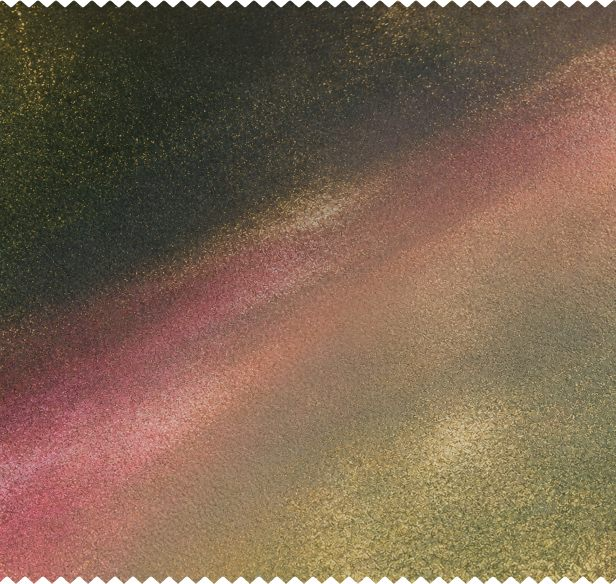
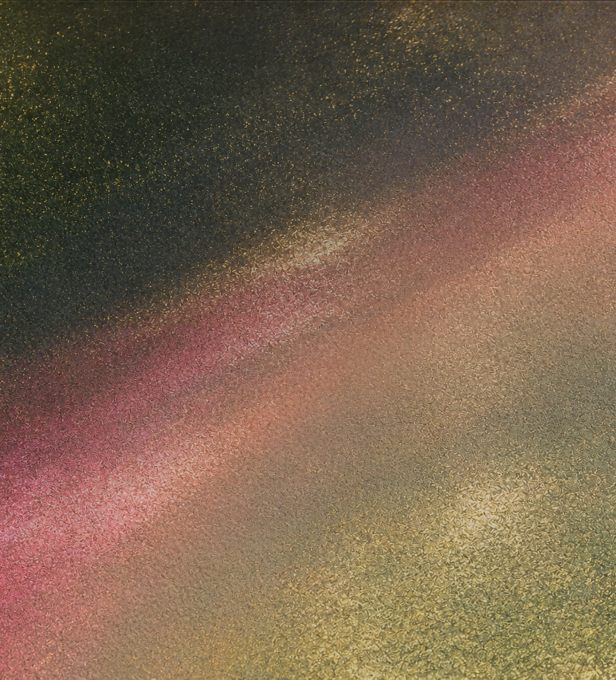
Параллакс текстуры внутри обеих плашек
Автор прислала удлинённые версии текстур (узлы 1964:820 и 1966:867:
308×340 и 986×468 против 308×292 и 986×406) — запас по высоте и есть ход
параллакса: 48 и 62 пикселя.

Зубцы пришлось вынуть из картинки в маску: текстура теперь ездит, и зубцы
уехали бы вместе с ней. `.badge-bg` и `.buy-bg` стали контейнерами
с overflow: hidden и маской из альфы той же векторной выгрузки (3 и 9 КБ),
текстура лежит внутри отдельным элементом и двигается трансформом.
Контур сверен с прежним, запечённым в картинку: средняя разница по колонкам
0,04–0,08 пикселя, максимум 1.

Фон отстаёт от страницы, как при неподвижной подложке. Долю пути считаем
в экранных пикселях, а ход и трансформ — в вёрсточных: холст отмасштабирован
зумом, и смешивать эти системы нельзя. Скролл через requestAnimationFrame,
слушатель пассивный. При prefers-reduced-motion модуль не запускается,
текстура остаётся на середине хода — её туда ставит CSS.

На мобильном параллакса нет: там подложки скрыты, текстура лежит обычным
background cover, и удлинённая картинка этому не мешает.

diff --git a/site/index.html b/site/index.html
@@ -28,7 +28,7 @@
   <link rel="icon" href="favicon.png" sizes="32x32" type="image/png">
   <link rel="apple-touch-icon" href="apple-touch-icon.png">
 
-  <link rel="stylesheet" href="style.css?v=99">
+  <link rel="stylesheet" href="style.css?v=100">
 </head>
 <body>
   <!-- Yandex.Metrika counter -->
@@ -58,7 +58,7 @@
         <p class="hero-sub">Онлайн-курс для&nbsp;дизайнеров и&nbsp;менеджеров <br class="wide-only">по&nbsp;работе с&nbsp;печатной продукцией</p>
 
         <div class="badge">
-          <img class="badge-bg" src="assets/plate-badge.jpg" alt="">
+          <div class="badge-bg" aria-hidden="true"><i></i></div>
           <div class="badge-head">
             <p class="badge-lead">Ранний доступ к&nbsp;курсу</p>
             <p class="badge-note">Включает доступ ко&nbsp;всем урокам, которые выйдут позже</p>
@@ -287,7 +287,7 @@
       <!-- ===== Плашка с ценой ===== -->
       <section class="buy" aria-label="Предзаказ курса">
         <div class="buy-card">
-          <img class="buy-bg" src="assets/plate-buy.jpg" alt="" aria-hidden="true">
+          <div class="buy-bg" aria-hidden="true"><i></i></div>
           <p class="buy-kicker">Курс</p>
           <h2 class="buy-title">Допечатная подготовка</h2>
           <p class="buy-text">Включает доступ ко&nbsp;всем урокам, которые выйдут позже</p>
@@ -697,6 +697,49 @@
         else drip(shuffle(add), 60);
       }, 250);
     }, { passive: true });
+  })();
+
+  /* ============================================================
+     ПАРАЛЛАКС ТЕКСТУР
+     Фон внутри обеих плашек едет при скролле. Текстура выгружена выше
+     самой плашки (запас 48 и 62 пикселя), лежит под маской с зубцами
+     и двигается трансформом — запас по высоте и есть весь ход.
+
+     Считаем долю пути плашки по экрану: 0 — она только показалась снизу,
+     1 — ушла за верх. Фон отстаёт от страницы, как при неподвижной
+     подложке: внизу видно его нижний край, вверху — верхний.
+
+     Ход берём в вёрсточных пикселях (offsetHeight), а долю пути — в
+     экранных (getBoundingClientRect): холст отмасштабирован зумом,
+     и смешивать эти системы нельзя.
+     ============================================================ */
+  (() => {
+    const boxes = [...document.querySelectorAll('.badge-bg, .buy-bg')]
+      .map(box => ({ box, tex: box.firstElementChild }))
+      .filter(o => o.tex);
+    if (!boxes.length) return;
+    // при reduce оставляем середину хода, которую задал CSS
+    if (matchMedia('(prefers-reduced-motion: reduce)').matches) return;
+
+    let queued = false;
+    const draw = () => {
+      queued = false;
+      const vh = innerHeight;
+      for (const o of boxes) {
+        const h = o.box.offsetHeight;
+        if (!h) continue;                       // на мобильном подложка скрыта
+        const travel = o.tex.offsetHeight - h;
+        if (travel <= 0) continue;
+        const r = o.box.getBoundingClientRect();
+        let p = (vh - r.top) / (vh + r.height);
+        p = p < 0 ? 0 : p > 1 ? 1 : p;
+        o.tex.style.transform = 'translate3d(0,' + (-(1 - p) * travel).toFixed(1) + 'px,0)';
+      }
+    };
+    const onScroll = () => { if (!queued) { queued = true; requestAnimationFrame(draw); } };
+    addEventListener('scroll', onScroll, { passive: true });
+    addEventListener('resize', onScroll, { passive: true });
+    draw();
   })();
 
   /* ============================================================

diff --git a/site/style.css b/site/style.css
@@ -259,7 +259,43 @@ img {
 /* z-index обязателен: вступление стоит на той же высоте, и его прозрачный бокс
    во всю колонку лежит поверх плашки — без подъёма кнопка не нажимается. */
 .badge { position: absolute; z-index: 2; left: 704px; top: 747px; width: 308px; height: 292px; }
-.badge-bg { position: absolute; left: 0; top: 0; width: 308px; height: 292px; }
+
+/* ===== Текстура с параллаксом =====
+   Внутри обеих плашек фон едет при скролле. Для этого текстура выгружена
+   удлинённой (узлы 1964:820 и 1966:867: 308×340 и 986×468 против 308×292
+   и 986×406), лежит в контейнере с `overflow: hidden` и двигается
+   трансформом — запас по высоте и есть ход параллакса.
+
+   Зубцы по краям раньше были зашиты в саму картинку; теперь картинка
+   прямоугольная и ездит, поэтому контур задан **маской** — это альфа той же
+   векторной выгрузки, что рисовала зубцы, белым по прозрачному. Маска
+   тянется на весь контейнер (`100% 100%`), так что зубцы не плывут.
+
+   Трансформ по умолчанию ставит текстуру серединой хода: так плашка выглядит
+   верно и до того, как отработает скрипт, и при `prefers-reduced-motion`. */
+.badge-bg, .buy-bg {
+  position: absolute;
+  left: 0; top: 0;
+  overflow: hidden;
+}
+.badge-bg > i, .buy-bg > i {
+  display: block;
+  position: absolute;
+  left: 0; top: 0;
+  width: 100%;
+  background: no-repeat 0 0 / 100% 100%;
+  will-change: transform;
+}
+.badge-bg {
+  width: 308px; height: 292px;
+  -webkit-mask: url('assets/plate-badge-mask.png') 0 0 / 100% 100% no-repeat;
+          mask: url('assets/plate-badge-mask.png') 0 0 / 100% 100% no-repeat;
+}
+.badge-bg > i {
+  height: 340px;
+  background-image: url('assets/plate-badge.jpg');
+  transform: translate3d(0, -24px, 0);
+}
 /* Текст выключен влево по колонке 268 с отбивкой 20 от края карточки. */
 .badge-head {
   position: absolute;
@@ -603,7 +639,16 @@ img {
    потому что внутри него плашка сдвинута на −18. */
 .buy { top: 6213px; left: 32px; width: 986px; height: 578px; }
 .buy-card { position: relative; width: 986px; height: 406px; color: #fff; }
-.buy-bg { position: absolute; left: 0; top: 0; width: 986px; height: 406px; }
+.buy-bg {
+  width: 986px; height: 406px;
+  -webkit-mask: url('assets/plate-buy-mask.png') 0 0 / 100% 100% no-repeat;
+          mask: url('assets/plate-buy-mask.png') 0 0 / 100% 100% no-repeat;
+}
+.buy-bg > i {
+  height: 468px;
+  background-image: url('assets/plate-buy.jpg');
+  transform: translate3d(0, -31px, 0);
+}
 .buy-kicker, .buy-title, .buy-text, .buy-head, .buy-old, .buy-now { position: absolute; }
 .buy-kicker {
   left: 53px; top: 52px;
